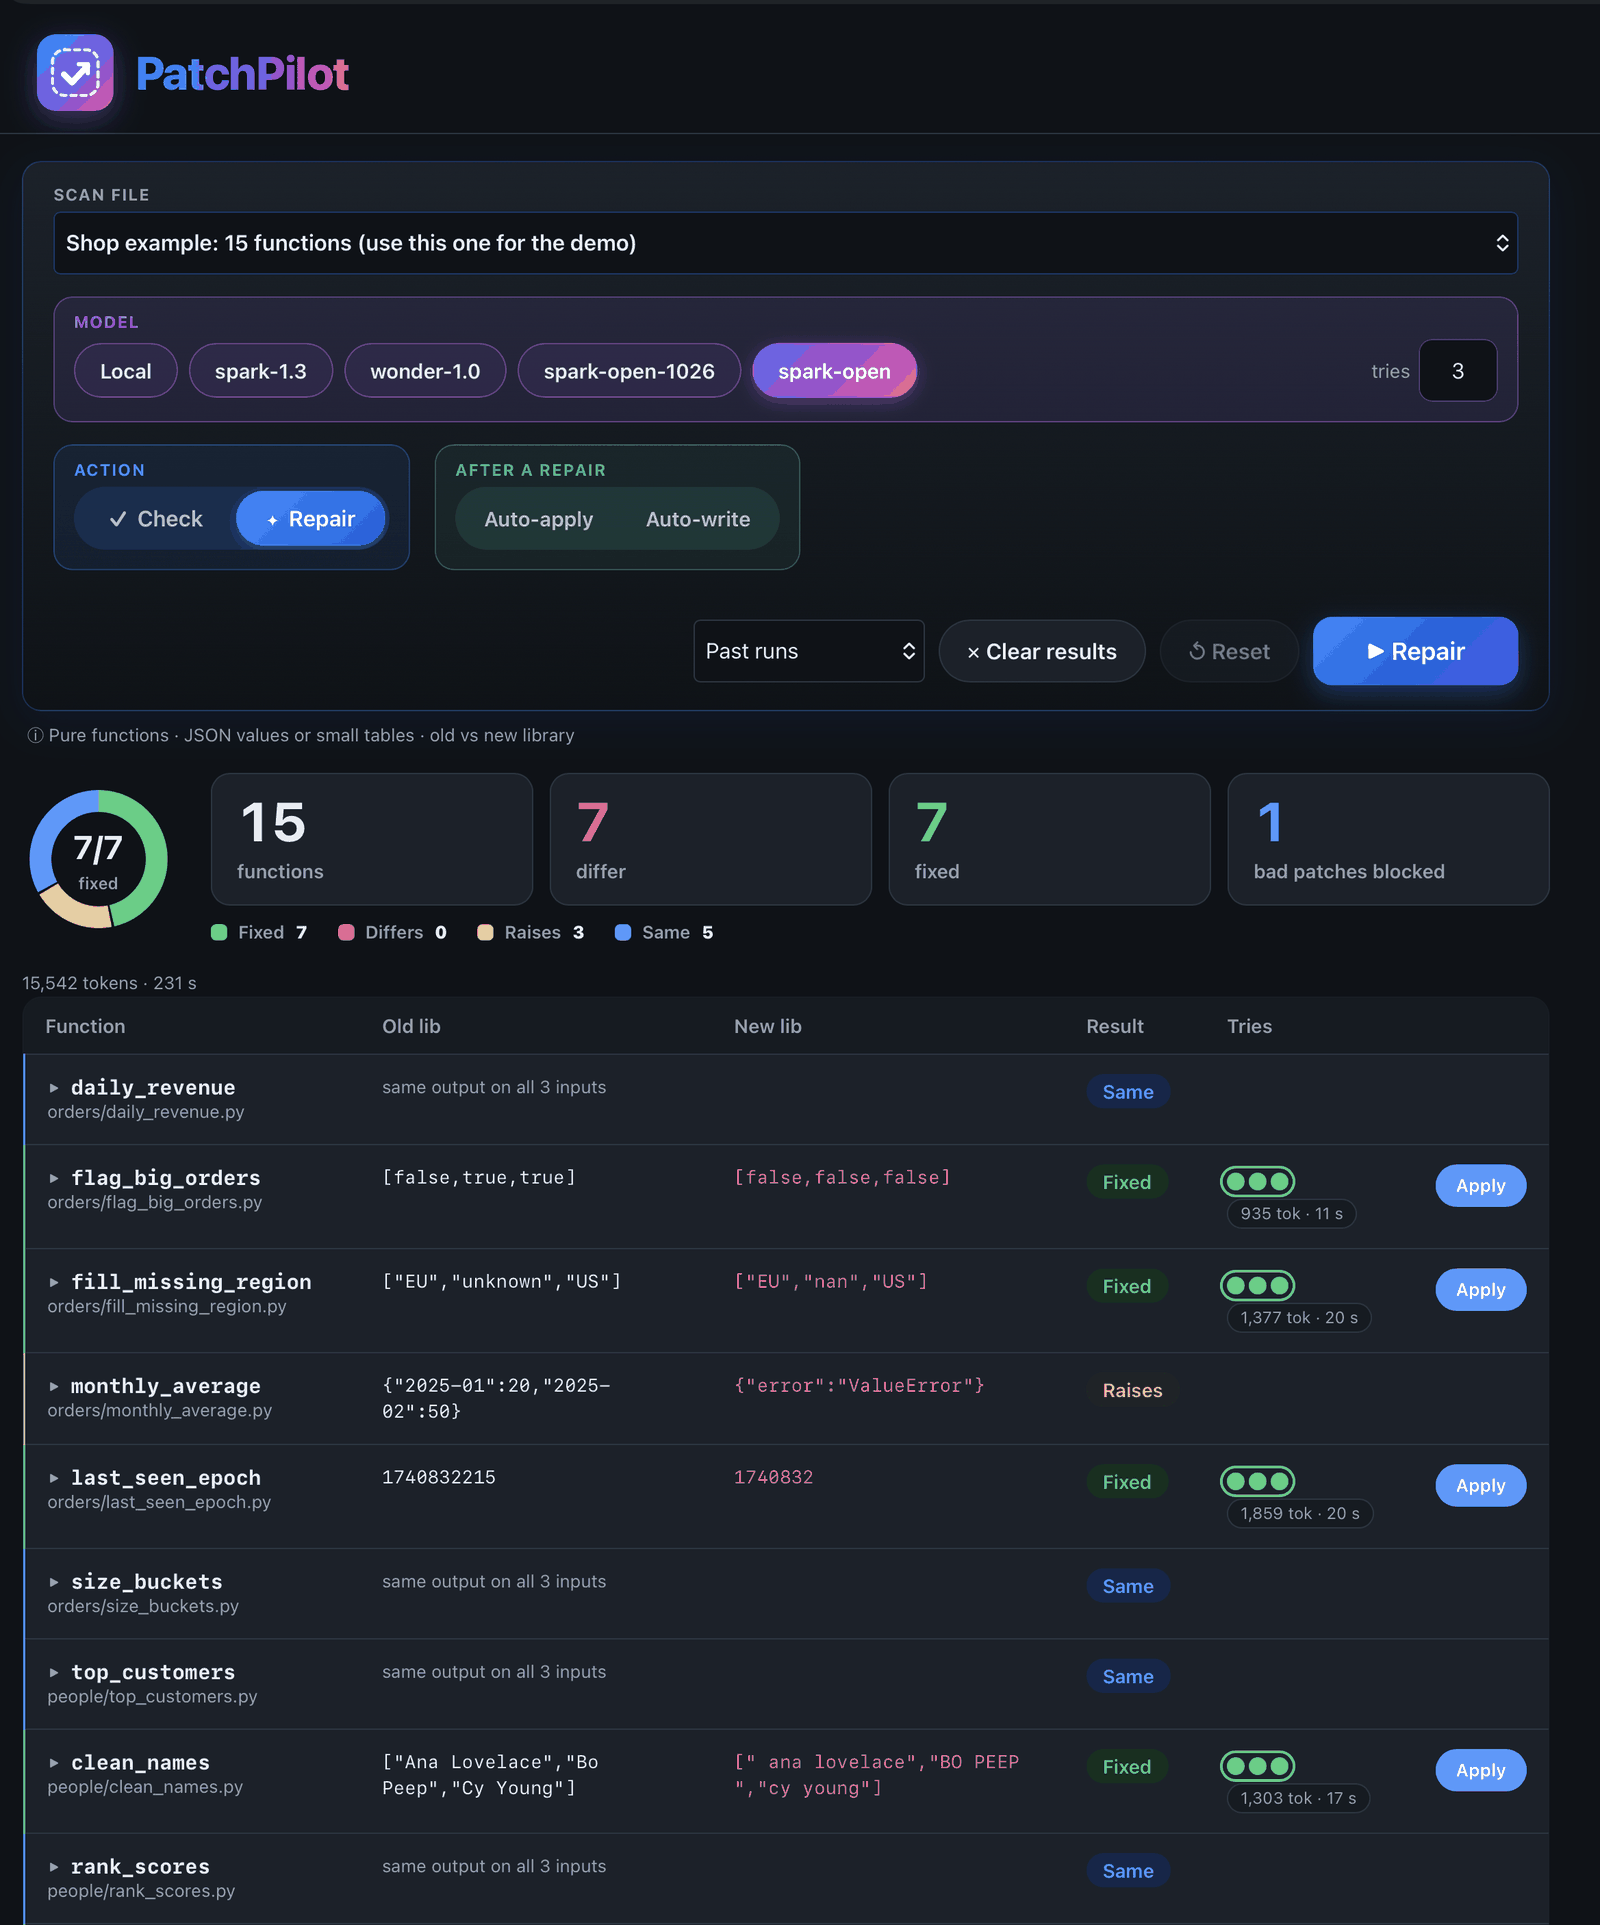
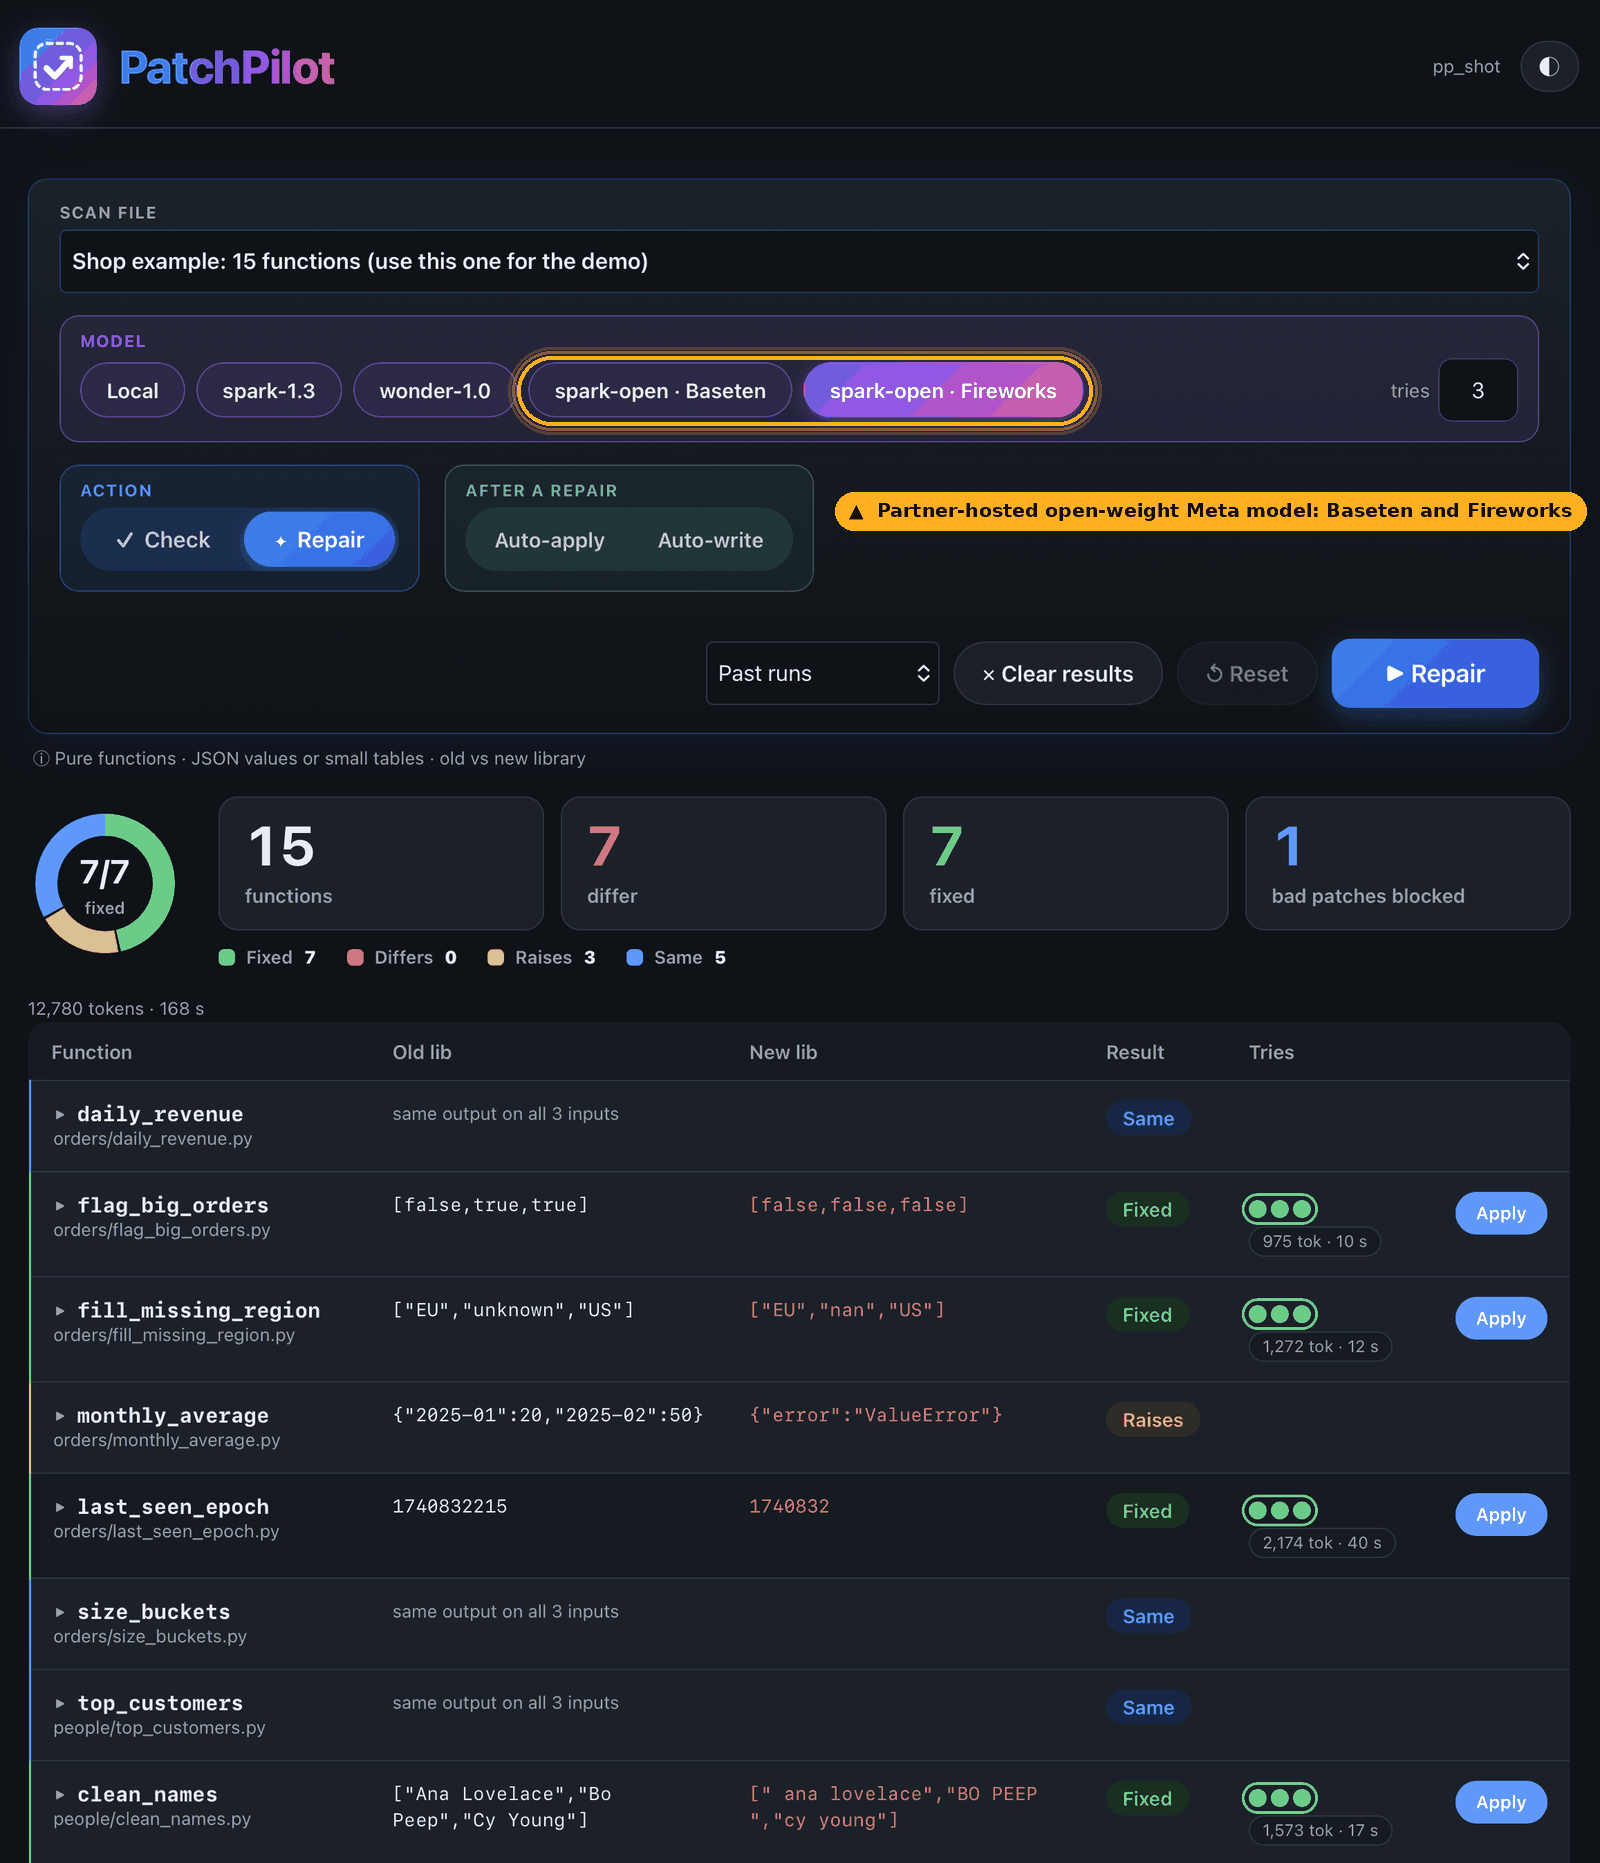
README: screenshot with partner-host model chips (Baseten, Fireworks), caption

diff --git a/README.md b/README.md
@@ -4,9 +4,9 @@
 
 Finds Python functions that silently return different results after a library upgrade (pandas 2.3 to 3.0, NumPy 1.26 to 2.x), repairs them with a Meta model, and writes a patch only if three gates agree. A local browser app runs the whole thing; the model can be the open-weight Muse Glimmer on your own machine.
 
-![PatchPilot app after a repair run on the 15-function shop set: Muse Spark Open on Fireworks, 7 of 7 fixed, one bad patch blocked](docs/img/app-done.png)
+![PatchPilot app after a repair run on the 15-function shop set: Muse Spark Open on Fireworks, 7 of 7 fixed, one bad patch blocked; the two partner-host model chips are outlined](docs/img/app-done.png)
 
-*The app after one run on the shop set (Muse Spark Open, hosted on Fireworks): 7 of 7 repaired, one patch rejected by the gates and the next accepted, 15,542 tokens, 231 s. One run, not a rate (`examples/shop_result_spark_open_fireworks_run2/`). The model chips in current versions also name the host.*
+*The app after one run on the shop set with Muse Spark Open hosted on Fireworks: 7 of 7 repaired, one patch rejected by the gates, 12,780 tokens, 168 s. One run, not a rate. The orange outline and label were added to the screenshot; the model chips name the two partner hosts, Baseten and Fireworks. Run records of two other runs of the same model: `examples/shop_result_spark_open_fireworks/` and `examples/shop_result_spark_open_fireworks_run2/`.*
 
 Meta Global AI Developer Hackathon (Oct 26 to Nov 4, 2026). Track: Indie Developer. Problem statement: Push the Frontier (software). Solo entry. The repository was created on 2026-10-27 (first commit after the kickoff) and holds only work from the event. License: PolyForm Strict 1.0.0 (`LICENSE`), public repository; the organizers confirmed that this meets the rules.
 

diff --git a/docs/DETAILS.md b/docs/DETAILS.md
@@ -6,7 +6,7 @@ Finds Python functions that silently return different results after a library up
 
 ![PatchPilot app after a repair run on the 15-function shop set](docs/img/app-done.png)
 
-*One run with Muse Spark Open on Fireworks: 7 of 7 repaired, one patch rejected by the gates and the next accepted, 15,542 tokens, 231 s (`examples/shop_result_spark_open_fireworks_run2/`).*
+*One run with Muse Spark Open hosted on Fireworks: 7 of 7 repaired, one patch rejected by the gates, 12,780 tokens, 168 s. The orange outline was added to the screenshot.*
 
 *Recorded run (run 2 of three) on `examples/shop/` (15 functions we wrote): 5 unaffected, 3 fail loudly, 7 differ silently; all 7 repaired on the first attempt with local Muse Glimmer, 8,651 tokens, 225 s (`examples/shop_result_run2/`). The same model failed one of the seven in an earlier run on the same set (`examples/shop_result/`): three runs on this set show variation, not a rate (run 3: 7/7 as well, but three patches were rejected by the gates on the way: `examples/shop_result_run3/`).*
 
